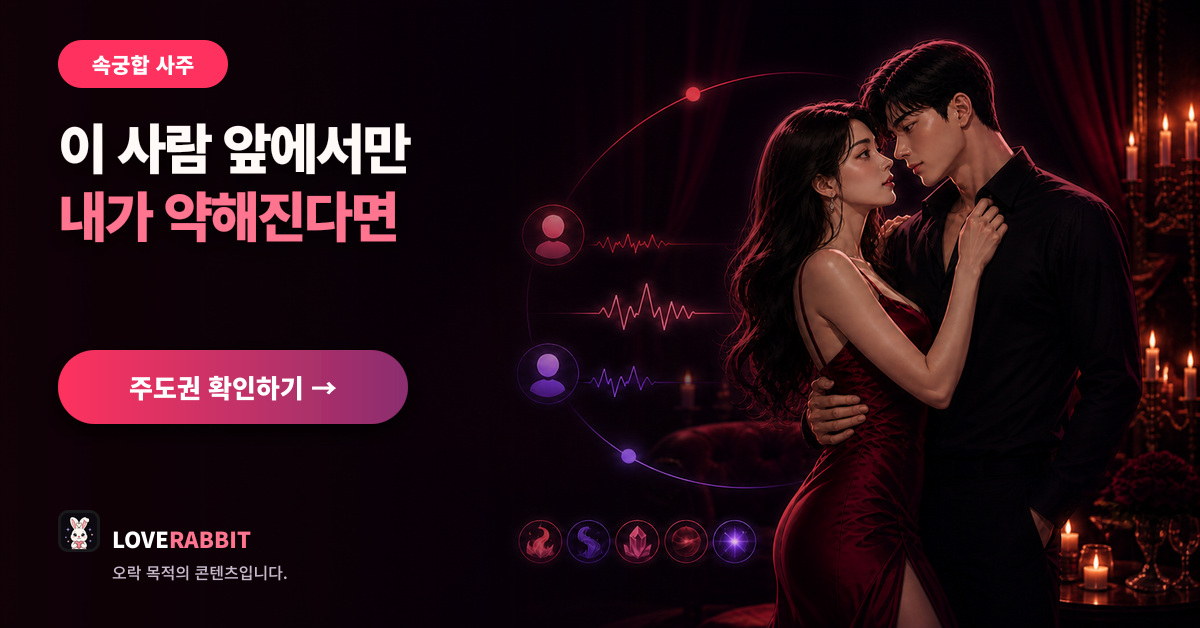
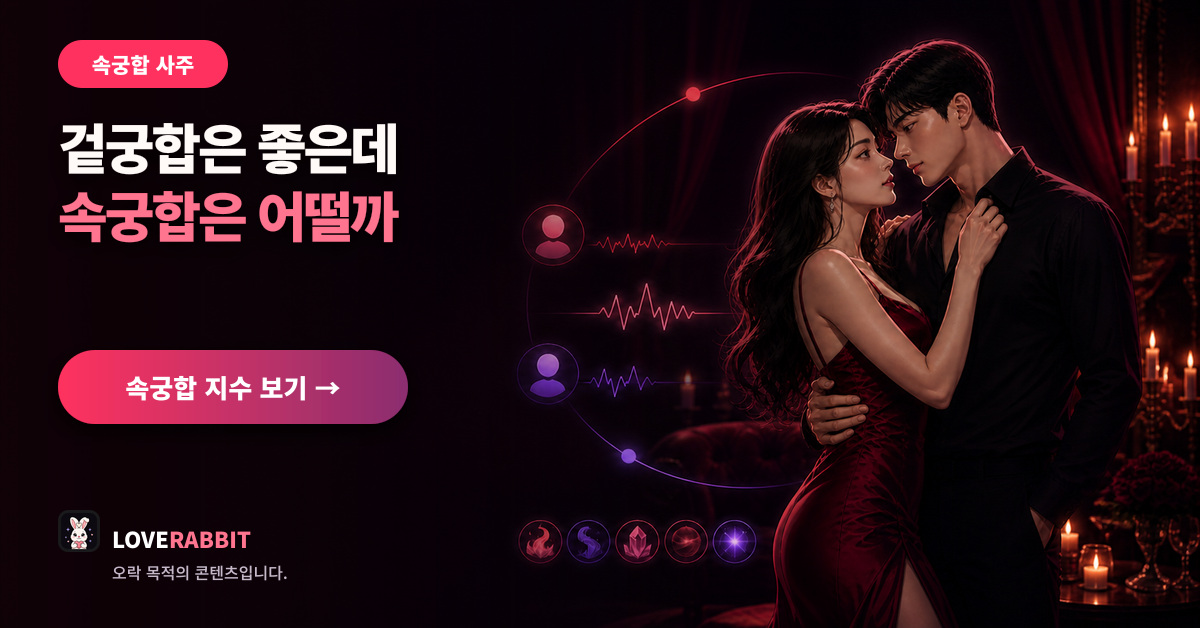
속궁합은 성적 상성이지 마음이 맞는지가 아니다
내가 잘못 읽었다. 속궁합을 감정 쪽으로 잡고 "이 사람 앞에서만 내가 약해진다면"
으로 썼는데, 그건 겉궁합 광고와 같은 말이다. 정작 그 상품을 찾는 사람은
자기 것이 아니라고 넘긴다.

상품이 쓰는 말이 근거다 - 게이지 이름이 "속궁합 지수" 이고 설명이
"겉궁합만으로는 모르는 두 사람의 온도와 호흡" 이다. 세 세트 모두 겉궁합과
대비시키는 쪽으로 고쳤다.

같은 상품을 파는 세 광고를 이제 직설의 세기로 가른다 - 성격이 부딪히는
지점, 속궁합 자체, 성인 등급. 각도가 아니라 세기다.

Changed region(s): [[0.0308, 0.1815, 0.3392, 0.3933], [0.0925, 0.5748, 0.2775, 0.6354]]

diff --git a/marketing/ads/shrine-square-v1/SHRINE_SQUARE_V1.md b/marketing/ads/shrine-square-v1/SHRINE_SQUARE_V1.md
@@ -24,7 +24,7 @@ node marketing/ads/compose-shrine-square-v1.mjs
 |---|---|---|
 | 01 | "내가 뭘 그렇게 잘못했을까" | 그 연애가 끝난 진짜 이유. |
 | 02 | "잘 만나다가 꼭 여기서 틀어져" | 둘이 반드시 부딪히는 지점. |
-| 03 | "이 사람 앞에서만 내가 약해져" | 누가 쥐고 있는지 다 나와요. |
+| 03 | "겉은 잘 맞는데 속은 모르겠어" | 겉궁합 말고, 속궁합 지수. |
 | 04 | "올해도 그냥 지나가는 건가" | 인연 들어오는 달, 나옵니다. |
 | 05 | "읽씹은 아닌데 진도가 안 나가" | 둘 중 누가 브레이크를 밟나. |
 | 06 | "가까워질수록 어긋나는 느낌" | 둘의 속도, 어디서 갈리나. |
@@ -49,14 +49,20 @@ node marketing/ads/compose-shrine-square-v1.mjs
 |---|---|---|
 | 01 | 이별 부검 리포트 (29,900) | 2장 01 이별의 진짜 사인 규명 · 4장 01 반복해서 걸려 넘어지는 지점 |
 | 02 | 속궁합 사주 (9,900) | 5장 02 다투게 된다면 반드시 이 지점에서 · 5장 01 관계 온도가 식는 위험 구간 |
-| 03 | 속궁합 사주 (9,900) | 3장 02 주도권은 누구에게 있는가 · 4장 01 그 사람이 무너지는 순간 |
+| 03 | 속궁합 사주 (9,900) | 게이지 이름 "속궁합 지수" · "겉궁합만으로는 모르는 두 사람의 온도와 호흡" |
 | 04 | 인연 타이밍 (14,900) | 2장 01 인연의 창이 열리는 시기 · 2장 02 만나게 될 가능성이 높은 경로 |
 | 05 | 썸 해부 사주 (12,900) | 1장 02 브레이크를 밟고 있는 쪽은 누구인가 · 2장 01 밀당인가 진심인가 |
 | 06 | 속궁합 사주 (9,900) | 6장 01 권태를 피하는 완급 조절법 · 5장 01 관계 온도가 식는 위험 구간 |
 
-**02 · 03 · 06 은 같은 상품을 판다.** 그래서 각도를 갈랐다 — 02 는 부딪히는
-지점, 03 은 주도권, 06 은 완급. 셋이 같은 말을 하면 한 광고가 나머지 둘의
-예산만 갉아먹는다.
+**02 · 03 · 06 은 같은 상품을 판다.** 그래서 직설의 세기로 갈랐다 —
+02 는 성격이 부딪히는 지점(가장 순함), 03 은 속궁합 자체, 06 은 성인 등급.
+셋이 같은 말을 하면 한 광고가 나머지 둘의 예산만 갉아먹는다.
+
+**속궁합은 성적 상성이다. 마음이 맞는지가 아니다.** 처음에 이걸 감정 쪽으로
+읽고 "이 사람 앞에서만 내가 약해져" 로 썼다가 고쳤다. 그렇게 쓰면 03 이
+02 와 같은 말을 하게 되고, 정작 그 상품을 찾는 사람은 자기 것이 아니라고
+넘긴다. 상품이 쓰는 말이 근거다 — 게이지 이름이 `속궁합 지수` 이고,
+설명이 `겉궁합만으로는 모르는 두 사람의 온도와 호흡` 이다.
 
 **05 는 랜딩 이름이 "속마음" 이지만 파는 것은 썸 해부다.** 그래서 문구도
 "그 사람 마음" 이 아니라 "왜 멈춰 있는가" 를 묻는다. 진도가 안 나가는

diff --git a/marketing/ads/white-five-v1/WHITE_FIVE_V1.md b/marketing/ads/white-five-v1/WHITE_FIVE_V1.md
@@ -26,7 +26,7 @@ node marketing/ads/compose-white-five-v1.mjs
 | | 주제 | 헤드라인 | 랜딩 |
 |---|---|---|---|
 | 01 | 궁합 사주 | 잘 맞다가도 꼭 여기서 틀어진다면 | `/saju/compatibility` |
-| 02 | 속궁합 사주 | 이 사람 앞에서만 내가 약해진다면 | `/saju/intimate-compatibility` |
+| 02 | 속궁합 사주 | 겉궁합은 좋은데 속궁합은 어떨까 | `/saju/intimate-compatibility` |
 | 03 | 19금 사주 | 가까워질수록 어긋나는 느낌이라면 | `/saju/mature-compatibility` |
 | 04 | 연애운 사주 | 올해도 그냥 지나가는 걸까 | `/saju/romance-timing` |
 | 05 | 이별 사주 | 내가 뭘 그렇게 잘못했을까 | `/saju/breakup-decision` |
@@ -51,14 +51,20 @@ node marketing/ads/compose-white-five-v1.mjs
 | | 상품 | sub | CTA |
 |---|---|---|---|
 | 01 | 속궁합 사주 (9,900) | 반드시 부딪히는 지점과 식는 구간을 짚습니다. | 부딪히는 지점 보기 |
-| 02 | 속궁합 사주 (9,900) | 주도권이 어느 쪽인지, 무너지는 순간까지 봅니다. | 주도권 확인하기 |
+| 02 | 속궁합 사주 (9,900) | 둘의 온도와 호흡, 주도권까지 일주로 읽습니다. | 속궁합 지수 보기 |
 | 03 | 속궁합 사주 (9,900) | 두 사람의 속도와 완급이 어디서 갈리는지 봅니다. | 속도 차이 보기 |
 | 04 | 인연 타이밍 (14,900) | 인연의 창이 열리는 달과 만날 경로까지 나옵니다. | 인연 오는 달 보기 |
 | 05 | 이별 부검 리포트 (29,900) | 어디서부터 어긋났는지와 반복 패턴을 짚습니다. | 끝난 이유 보기 |
 
-**01 · 02 · 03 은 같은 상품을 판다.** 그래서 각도를 갈랐다 — 01 은 부딪히는
-지점, 02 는 주도권, 03 은 완급. 셋이 같은 말을 하면 한 광고가 나머지 둘의
-예산만 갉아먹는다.
+**01 · 02 · 03 은 같은 상품을 판다.** 그래서 직설의 세기로 갈랐다 —
+01 은 성격이 부딪히는 지점(가장 순함), 02 는 속궁합 자체, 03 은 성인 등급.
+셋이 같은 말을 하면 한 광고가 나머지 둘의 예산만 갉아먹는다.
+
+**속궁합은 성적 상성이다. 마음이 맞는지가 아니다.** 처음에 이걸 감정 쪽으로
+읽고 "이 사람 앞에서만 내가 약해진다면" 으로 썼다가 고쳤다. 그렇게 쓰면 02 가
+01 과 같은 말을 하게 되고, 정작 그 상품을 찾는 사람은 자기 것이 아니라고
+넘긴다. 상품이 쓰는 말이 근거다 — 게이지 이름이 `속궁합 지수` 이고,
+설명이 `겉궁합만으로는 모르는 두 사람의 온도와 호흡` 이다.
 
 **03 에서 "밤" 을 뺐다.** 심의에서 걸리는 것은 그 낱말이 밀착 그림과 겹칠 때다.
 
